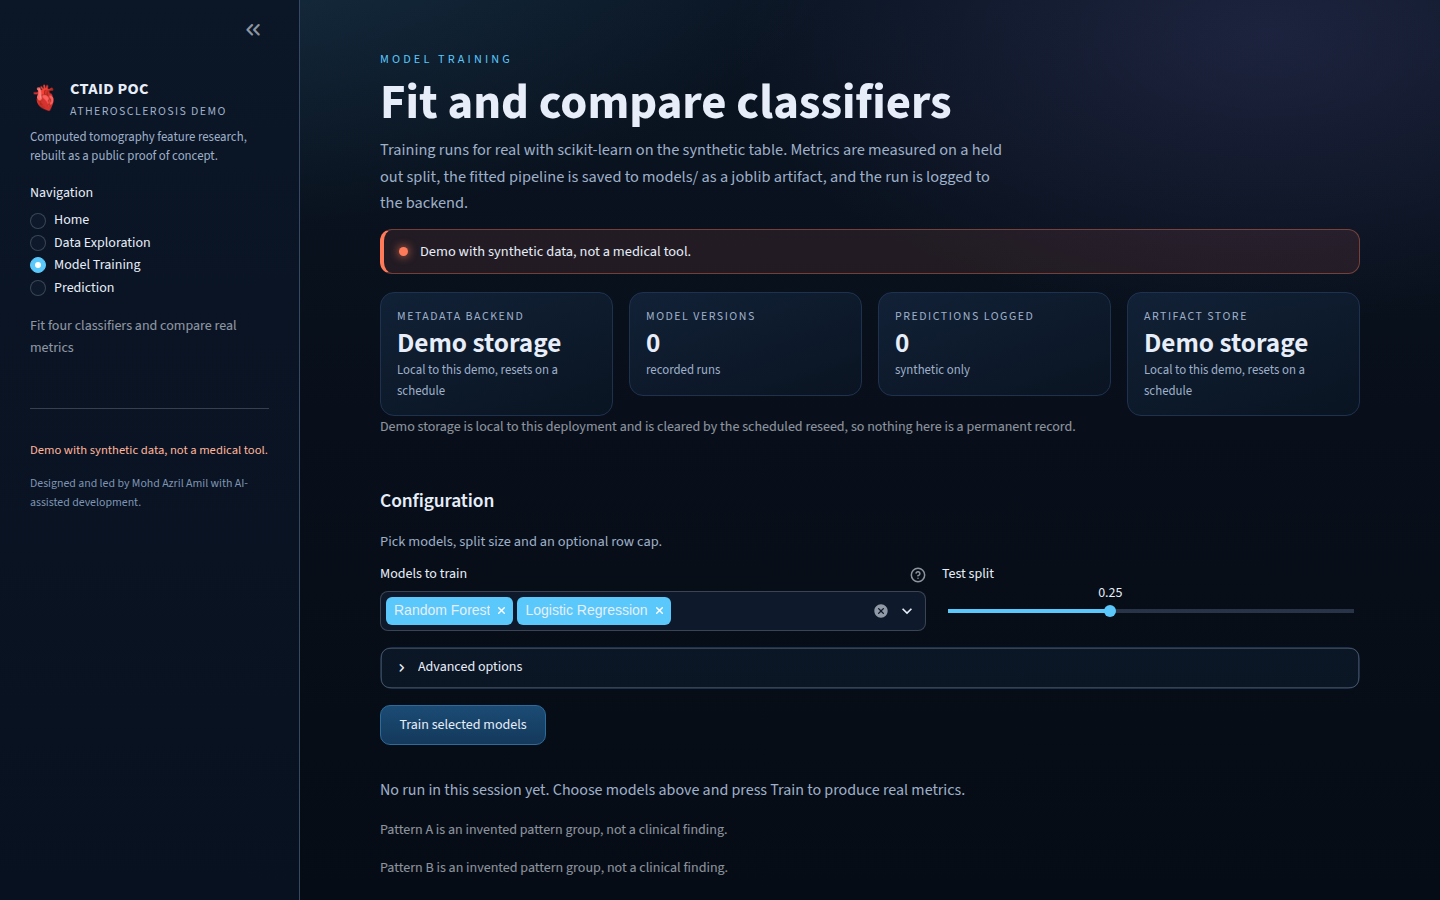
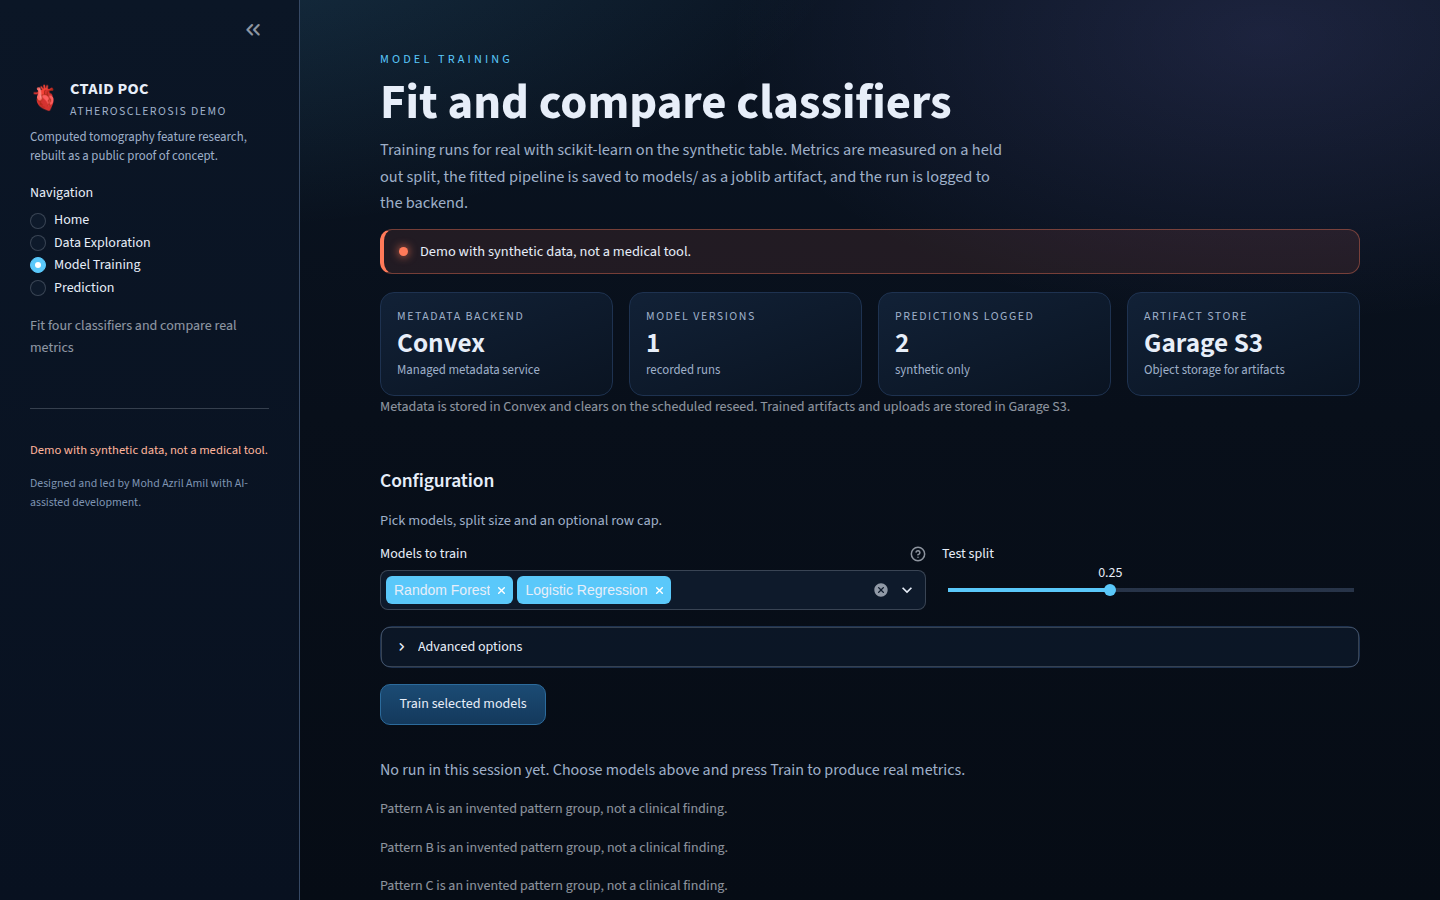
Document the live Convex and Garage S3 wiring
The live demo stores dataset metadata, model versions and prediction
history on the dedicated Convex deployment at convex-demo.azril.io, and
artifacts on the ctaid-poc-demo Garage S3 bucket. The Model Training
screenshot and README show both badges.

diff --git a/README.md b/README.md
@@ -103,11 +103,18 @@ the repository.
 ## Optional backend wiring
 
 Both integrations are real but optional; the app is complete without them.
+The live demo at [https://ctaid-poc.azril.io](https://ctaid-poc.azril.io) is
+wired to both.
 
-| Feature | With env vars | Without env vars |
-| --- | --- | --- |
-| Dataset metadata, model versions, prediction history | Convex (`CONVEX_URL`) | SQLite in `var/ctaid-demo.sqlite3` |
-| CSV uploads and model artifacts | Garage S3 (`S3_ENDPOINT`, `S3_BUCKET`, `S3_ACCESS_KEY_ID`, `S3_SECRET_ACCESS_KEY`) | `var/objects/` on local disk |
+| Feature | Live demo | With env vars | Without env vars |
+| --- | --- | --- | --- |
+| Dataset metadata, model versions, prediction history | Convex at [https://convex-demo.azril.io](https://convex-demo.azril.io), a dedicated deployment separate from any private app | Convex (`CONVEX_URL`) | SQLite in `var/ctaid-demo.sqlite3` |
+| CSV uploads and model artifacts | Garage S3 bucket `ctaid-poc-demo` | Garage S3 (`S3_ENDPOINT`, `S3_BUCKET`, `S3_ACCESS_KEY_ID`, `S3_SECRET_ACCESS_KEY`) | `var/objects/` on local disk |
+
+The Model Training page shows a Convex badge for metadata and a Garage S3 badge
+for artifacts, with a caption that names both. A Convex cron at 03:20 UTC clears
+prediction history and model-version rows. The Python reseed script can do a
+fuller reset, including local files.
 
 Secrets are read from the environment only and are never committed.
 `.env.example` lists the variable names with empty values. Each stored record and

diff --git a/docs/features.md b/docs/features.md
@@ -36,7 +36,7 @@ Prediction. The demo notice sits on every page.
 ## Model Training
 
 - Backend status strip: metadata backend, model versions, predictions logged,
-  artifact store. With local fallbacks the two storage cards read `Demo storage`
+  artifact store. The live demo shows `Convex` and `Garage S3`. With local fallbacks the two storage cards read `Demo storage`
   with the hint `Local to this demo, resets on a schedule`; the raw backend name
   is never shown. Convex and Garage S3 are named only when actually configured.
 - Model picker over four classifiers: Logistic Regression, Random Forest, SVM

diff --git a/CHANGELOG.md b/CHANGELOG.md
@@ -15,6 +15,8 @@ Keep a Changelog, and the project uses semantic versioning.
 
 - When both Convex and Garage S3 are configured, the Model Training caption
   names both: metadata on Convex, artifacts and uploads on Garage S3.
+- The live demo at https://ctaid-poc.azril.io is wired to Convex at
+  https://convex-demo.azril.io and to the ctaid-poc-demo Garage S3 bucket.
 
 ## [2.0.2] 2026-11-13
 
